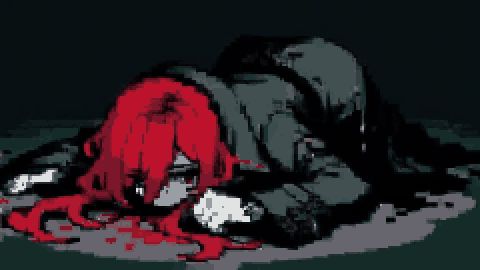
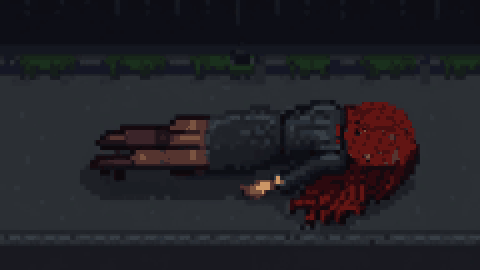
Red-haired woman portrait in the same pixel-art style, face down
AlbedoBase XL + Pixel Art XL LoRA, img2img from a composition sketch so she
lies prone in the headlight beam; her face is painted over with her hair.
Document how each cached source was produced.

Claude-Session: https://claude.ai/code/session_01N3XSPxGLPuAzHZPVpyahxE

diff --git a/tools/ai_art.py b/tools/ai_art.py
@@ -43,7 +43,15 @@ HORDE_NEG = ('lowres, worst quality, text, watermark, signature, photo, realisti
              'bright colors, cheerful, extra fingers, bad anatomy')
 PIXEL_STYLE = 'muted colors, dim lighting, limited palette'
 
-# Pixel-art faces drawn natively by a pixel-art model on AI Horde.
+# Pixel-art faces drawn natively on AI Horde. How the cached sources in
+# assets/ai_src/ were made (re-running regenerates them with these settings):
+#   vincent_base_px.png  AlbedoBase XL (SDXL) + Pixel Art XL LoRA (CivitAI 120096), 768x512, seed 32
+#   vincent_px.png       img2img from vincent_base_px (denoise 0.38, grey eyes, darker), seed 32
+#   vincent_low_px.png   same image; the guarded state is a darker, colder grade of it
+#   red_px.png           img2img from red_sketch.png (denoise 0.72), seed 51; the face the model
+#                        insisted on drawing was painted over with her hair by hand
+HORDE_SDXL = 'AlbedoBase XL (SDXL)'
+HORDE_LORA = [{'name': '120096', 'model': 1.0, 'clip': 1.0}]
 HORDE = {
     'vincent': dict(
         prompt=('pixel art, dark horror adventure game, 1boy, solo, young man, 20s, youthful face, smooth skin, clean shaven '
@@ -61,7 +69,7 @@ HORDE = {
         prompt=('pixel art, dark horror adventure game, 1girl, solo, lying on stomach, face down, face not visible, long red '
                 'hair spread on the ground, dark coat, arm outstretched, wet asphalt, empty parking lot, night, car headlights '
                 'shining on her from the side, from above, long shadows, ' + PIXEL_STYLE),
-        seed=11, anchor='bottom'),
+        seed=51, anchor='center', gamma=1.25, sat=0.8),
 }
 HORDE_MODEL = 'Pixel Illustrious'
 
